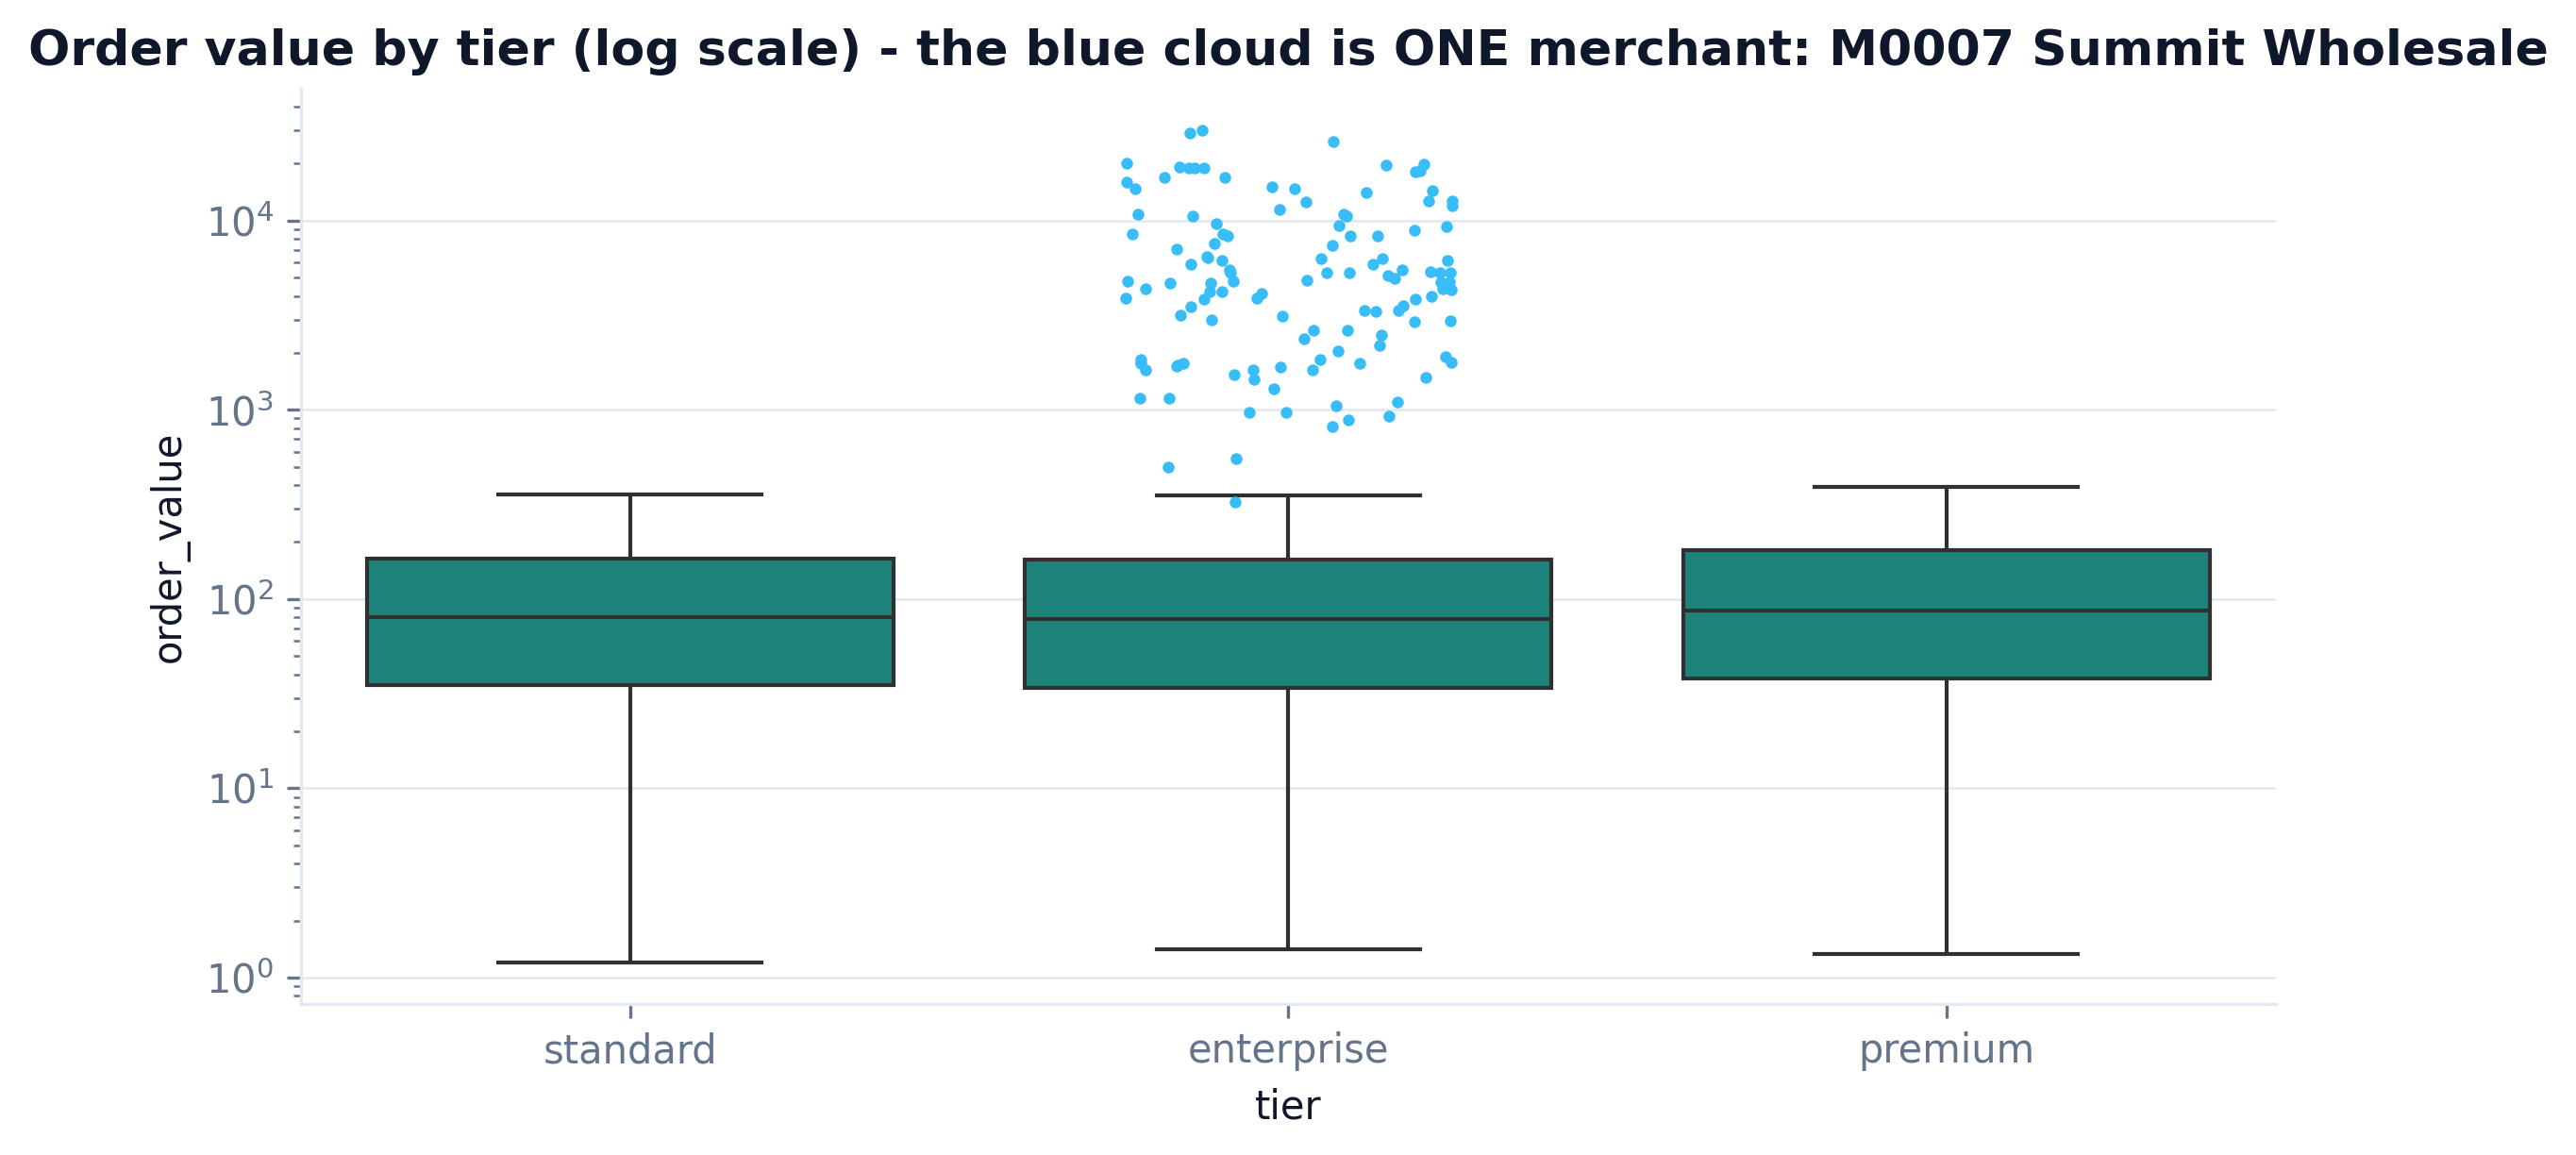
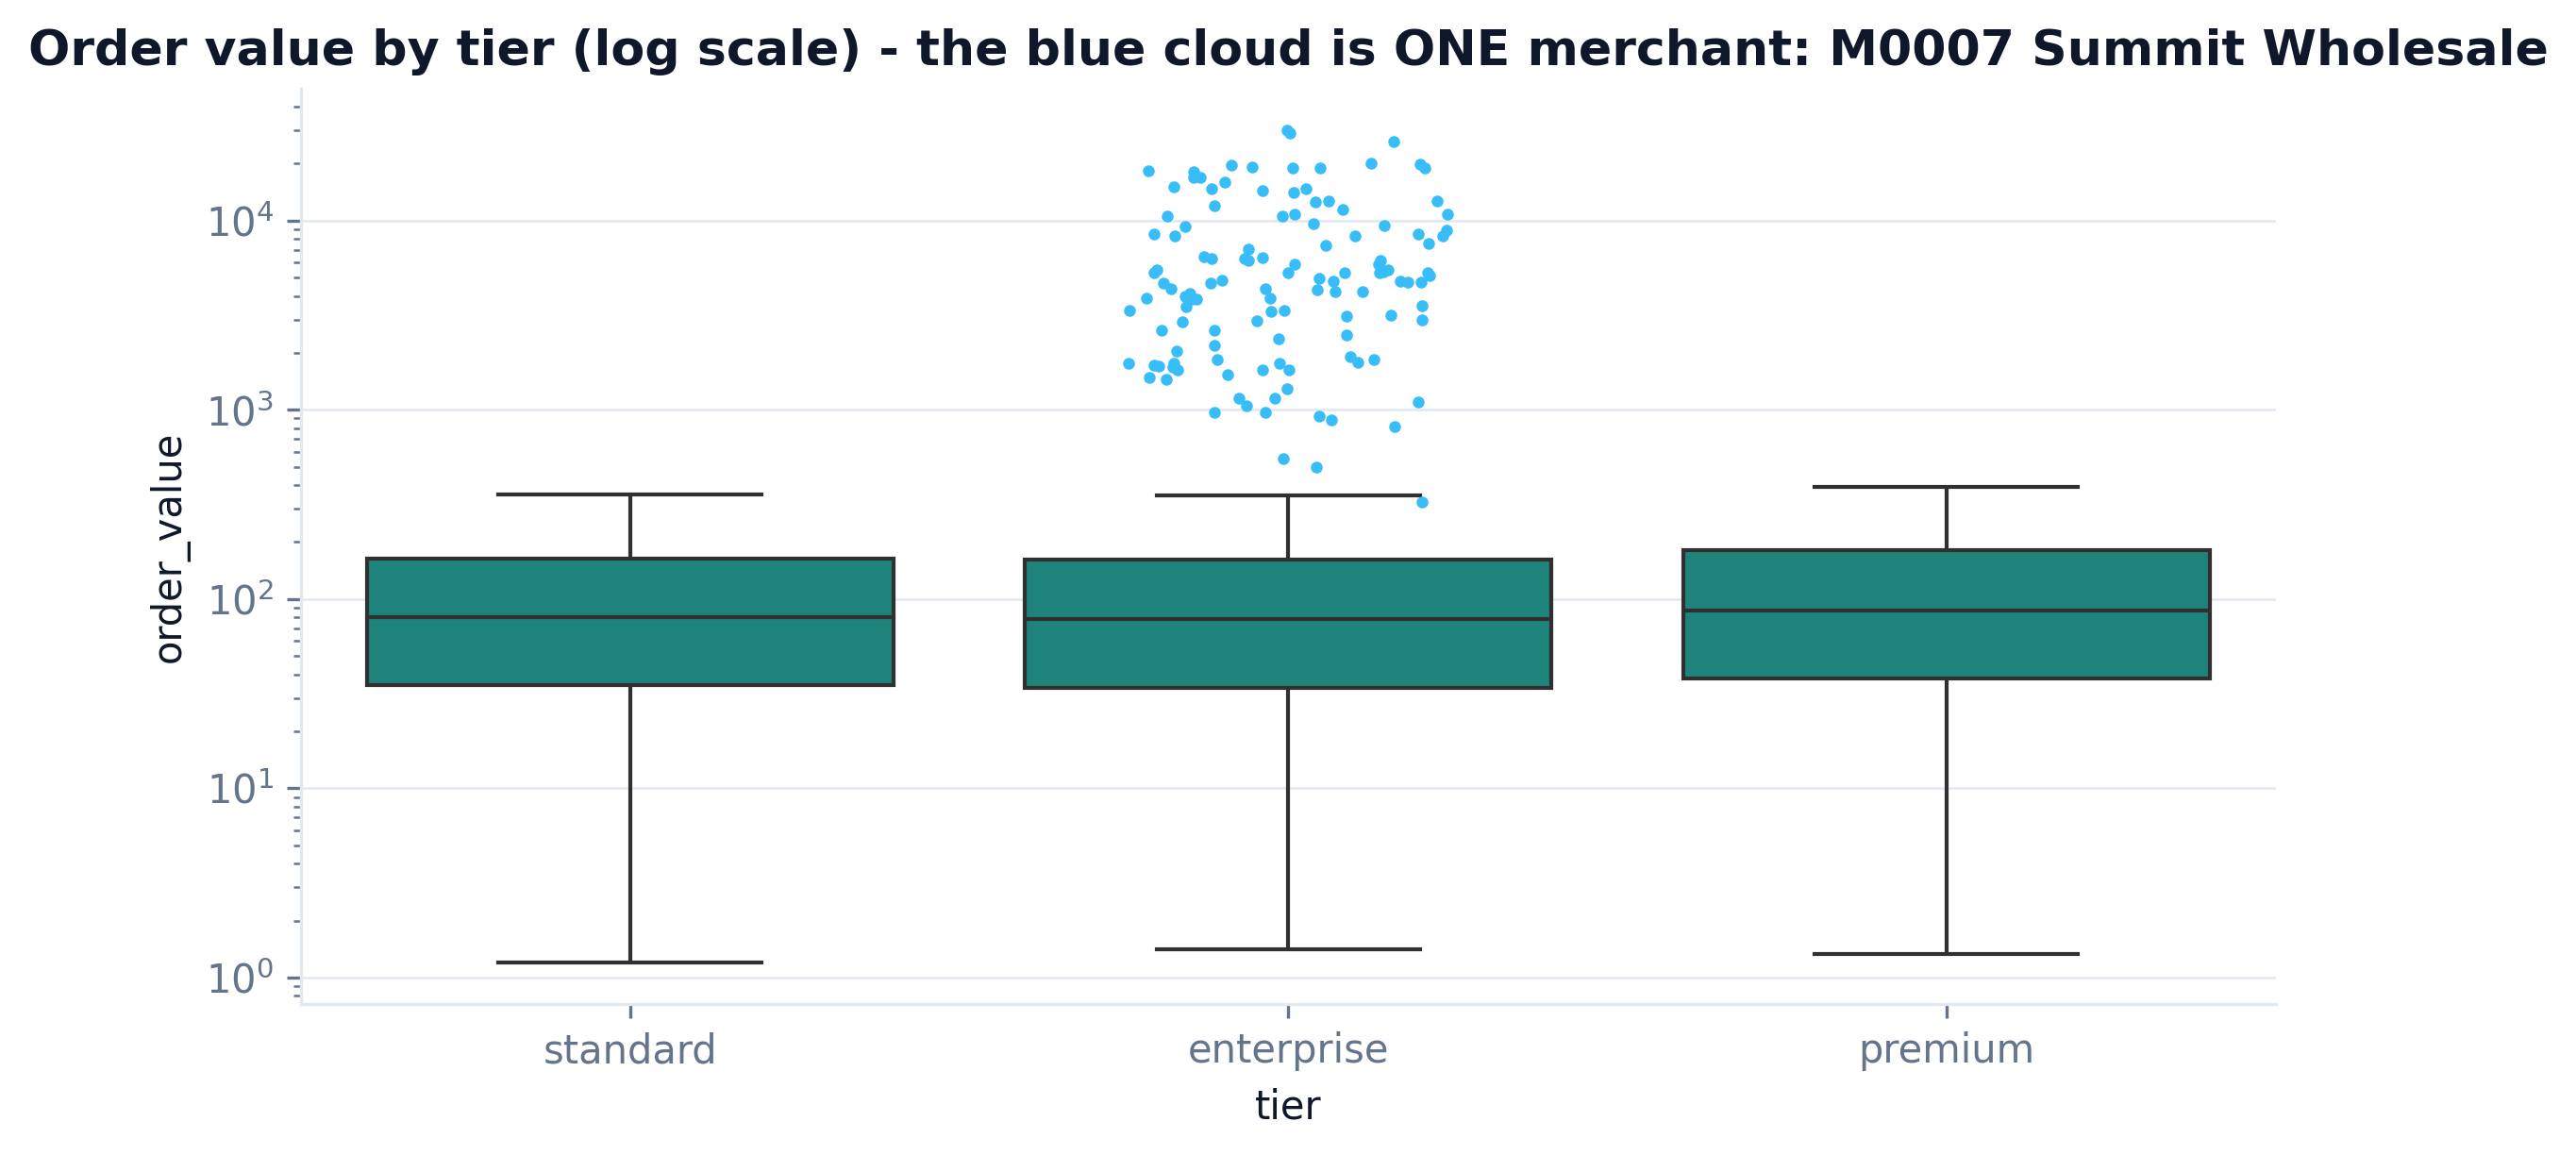
Mentor room stays private: Step 6 now an anonymous 5-agent expert-review panel (10yr+ data/insights/business); strip all named mentors from public files

Changed region(s): [[0.4359, 0.1242, 0.5916, 0.3725]]

diff --git a/docs/how-to-eda-using-claude-python/index.html b/docs/how-to-eda-using-claude-python/index.html
@@ -40,7 +40,7 @@
       <div class="rail-step"><div class="rail-node" data-step="3"><a href="#step-3"><div class="rail-circle">3</div><div class="rail-label">Objective</div></a></div><div class="rail-connector"></div></div>
       <div class="rail-step"><div class="rail-node" data-step="4"><a href="#step-4"><div class="rail-circle">4</div><div class="rail-label">Find-skills</div></a></div><div class="rail-connector"></div></div>
       <div class="rail-step"><div class="rail-node" data-step="5"><a href="#step-5"><div class="rail-circle">5</div><div class="rail-label">Code + charts</div></a></div><div class="rail-connector"></div></div>
-      <div class="rail-step"><div class="rail-node" data-step="6"><a href="#step-6"><div class="rail-circle">6</div><div class="rail-label">Mentor-verify</div></a></div></div>
+      <div class="rail-step"><div class="rail-node" data-step="6"><a href="#step-6"><div class="rail-circle">6</div><div class="rail-label">Expert review</div></a></div></div>
     </div>
   </div>
 </section>
@@ -195,13 +195,14 @@ null_by_ch = pay.groupby(<span class="c-str">"channel_id"</span>).method.apply(<
   <div class="wrap">
     <div class="step-ghost" style="color:#fff">06</div>
     <span class="step-tag">Step 6</span>
-    <h2 class="step-title">Mentor-verify - review that changes the code</h2>
-    <p class="step-body">Four mentor lenses reviewed the first version of the analysis (<code>eda_everrest_v1.py</code>, kept in the repo). Every fix below was applied and the pipeline re-ran - the charts above are the post-review v2. Review that changes nothing is theater.</p>
+    <h2 class="step-title">Expert review - a check that changes the code</h2>
+    <p class="step-body">A panel of five senior reviewer agents - each with 10+ years in data, data insights, and business - tore into the first version of the analysis (<code>eda_everrest_v1.py</code>, kept in the repo). Every fix below was applied and the pipeline re-ran; the charts above are the post-review v2. Review that changes nothing is theater.</p>
     <div class="mentor-grid">
-      <div class="mentor-card reveal"><div class="m-name">Andrej Karpathy</div><div class="m-lens">Code level</div><p>"v1 never deduped - 600 duplicate rows are inside every aggregate, and cancelled orders leak $527k into revenue. Gate the data before you touch it."</p><div class="m-fix">Fix applied: data-quality gate now runs before any aggregate; dupes and cancelled orders quantified, then excluded.</div></div>
-      <div class="mentor-card reveal"><div class="m-name">Andrew Ng</div><div class="m-lens">Methodology</div><p>"Overall missingness (7.8%) looks benign and hides the story. Break missingness down by segment or you will never see missing-not-at-random."</p><div class="m-fix">Fix applied: added missingness-by-channel chart - exposed the 55% affiliate null rate.</div></div>
-      <div class="mentor-card reveal"><div class="m-name">Cassie Kozyrkov</div><div class="m-lens">Decision framing</div><p>"Half of v1's titles were techniques: 'Correlations', 'Order value distribution'. A chart that doesn't change a decision is decoration."</p><div class="m-fix">Fix applied: every title rewritten as a finding; corr heatmap (no action) replaced with return-reasons chart; log scale added; M0007 named on the chart.</div></div>
-      <div class="mentor-card reveal"><div class="m-name">Monica Rogati</div><div class="m-lens">Practicality</div><p>"Nothing in v1 was quantified. Executives don't rank findings by p-value, they rank by money."</p><div class="m-fix">Fix applied: every finding carries a $ figure; findings.md ranks all six by impact.</div></div>
+      <div class="mentor-card reveal"><div class="m-name">Senior Data Engineer</div><div class="m-lens">12 yrs · code &amp; pipeline integrity</div><p>"v1 never deduped - 600 duplicate rows are inside every aggregate, and cancelled orders leak $527k into revenue. Gate the data before you touch it."</p><div class="m-fix">Fix applied: data-quality gate now runs before any aggregate; dupes and cancelled orders quantified, then excluded.</div></div>
+      <div class="mentor-card reveal"><div class="m-name">Analytics Methodology Lead</div><div class="m-lens">10 yrs · data quality &amp; rigor</div><p>"Overall missingness (7.8%) looks benign and hides the story. Break missingness down by segment or you will never see missing-not-at-random."</p><div class="m-fix">Fix applied: added missingness-by-channel chart - exposed the 55% affiliate null rate.</div></div>
+      <div class="mentor-card reveal"><div class="m-name">Data Insights Lead</div><div class="m-lens">11 yrs · decision framing</div><p>"Half of v1's titles were techniques: 'Correlations', 'Order value distribution'. A chart that doesn't change a decision is decoration."</p><div class="m-fix">Fix applied: every title rewritten as a finding; corr heatmap (no action) replaced with return-reasons chart; log scale added; M0007 named on the chart.</div></div>
+      <div class="mentor-card reveal"><div class="m-name">Commercial / Business Lead</div><div class="m-lens">14 yrs · impact &amp; actionability</div><p>"Nothing in v1 was quantified. Executives don't rank findings by p-value, they rank by money."</p><div class="m-fix">Fix applied: every finding carries a $ figure; findings.md ranks all six by impact.</div></div>
+      <div class="mentor-card reveal"><div class="m-name">Data QA &amp; Reproducibility</div><div class="m-lens">10 yrs · trust &amp; recall</div><p>"Prove it reproduces. Re-run from a clean checkout and confirm the analysis recovers every planted quirk, not just the easy ones."</p><div class="m-fix">Fix applied: fixed seed verified byte-identical on a clean run; all 5 planted quirks confirmed recovered, plus 1 unplanned finding.</div></div>
     </div>
     <div class="code-card">
       <div class="code-head"><span>before → after · the aggregate that lied</span><button class="copy-btn">Copy</button></div>

diff --git a/docs/index.html b/docs/index.html
@@ -26,7 +26,7 @@
   <div class="wrap">
     <span class="kicker">Claude + Python, end to end</span>
     <h1>Data skills you can<br><span class="tealline">install, not just read.</span></h1>
-    <p class="lede">Each skill walks one complex industry case through a 6-step pipeline - schema in, real executed charts and mentor-verified code out. Clone the repo, install the skill, run it on your own data.</p>
+    <p class="lede">Each skill walks one complex industry case through a 6-step pipeline - schema in, real executed charts and expert-reviewed code out. Clone the repo, install the skill, run it on your own data.</p>
     <div class="stats">
       <div class="stat"><div class="n num" data-count="1">0</div><div class="l">Skills live</div></div>
       <div class="stat"><div class="n num" data-count="6">0</div><div class="l">Pipeline steps</div></div>
@@ -88,14 +88,14 @@
   <div class="wrap">
     <span class="sec-kicker">How every skill works</span>
     <h2 class="sec-title">The 6-step pipeline</h2>
-    <p class="sec-sub">Same spine every time: input → sample data → objective → find-skills → code → mentor-verify. Real executed outputs only - every chart on every page came from a real run with a fixed seed.</p>
+    <p class="sec-sub">Same spine every time: input → sample data → objective → find-skills → code → expert review. Real executed outputs only - every chart on every page came from a real run with a fixed seed.</p>
     <div class="rail" style="margin-top:36px">
       <div class="rail-step"><div class="rail-node"><div class="rail-circle">1</div><div class="rail-label">Input</div></div><div class="rail-connector"></div></div>
       <div class="rail-step"><div class="rail-node"><div class="rail-circle">2</div><div class="rail-label">Sample data</div></div><div class="rail-connector"></div></div>
       <div class="rail-step"><div class="rail-node"><div class="rail-circle">3</div><div class="rail-label">Objective</div></div><div class="rail-connector"></div></div>
       <div class="rail-step"><div class="rail-node"><div class="rail-circle">4</div><div class="rail-label">Find-skills</div></div><div class="rail-connector"></div></div>
       <div class="rail-step"><div class="rail-node"><div class="rail-circle">5</div><div class="rail-label">Code + charts</div></div><div class="rail-connector"></div></div>
-      <div class="rail-step"><div class="rail-node"><div class="rail-circle">6</div><div class="rail-label">Mentor-verify</div></div></div>
+      <div class="rail-step"><div class="rail-node"><div class="rail-circle">6</div><div class="rail-label">Expert review</div></div></div>
     </div>
   </div>
 </section>

diff --git a/materials/how-to-eda/eda_everrest_v2.py b/materials/how-to-eda/eda_everrest_v2.py
@@ -1,17 +1,18 @@
-"""Everrest EDA - v2 (post mentor review).
+"""Everrest EDA - v2 (post expert review).
 
 Objective: what should Everrest's category team act on this quarter,
 and what in this data can't be trusted yet?
 
-Mentor fixes applied over v1:
-- Karpathy: data-quality gate FIRST - dedup the 600 double-fired orders and
-  exclude cancelled orders before any aggregate (v1 double-counted both).
-- Ng: structured DQ phase + missingness broken down BY segment (channel),
-  which is what actually exposes missing-not-at-random.
-- Kozyrkov: every chart titled with its FINDING, not its technique; corr
+Expert-review fixes applied over v1 (panel of senior reviewers, 10yr+ in
+data, data insights, and business):
+- Data engineer: data-quality gate FIRST - dedup the 600 double-fired orders
+  and exclude cancelled orders before any aggregate (v1 double-counted both).
+- Methodology lead: structured DQ phase + missingness broken down BY segment
+  (channel), which is what actually exposes missing-not-at-random.
+- Insights lead: every chart titled with its FINDING, not its technique; corr
   heatmap (no action) replaced with return-reason breakdown; log scale on
   the skewed order-value distribution; outlier merchant named on chart.
-- Rogati: every finding quantified in $ and ranked - findings.md is the
+- Business lead: every finding quantified in $ and ranked - findings.md is the
   exec deliverable, charts are the evidence.
 
 Run:  python eda_everrest_v2.py
@@ -143,7 +144,7 @@ ax.set_title("Only one column has a missing-data problem: payments.method (7.8%)
 fig.savefig(OUT / "missingness_matrix.png")
 plt.close(fig)
 
-# Missingness BY CHANNEL (Ng fix) - proves missing-not-at-random.
+# Missingness BY CHANNEL (methodology-lead fix) - proves missing-not-at-random.
 pay = payments.merge(
     orders_raw.drop_duplicates("order_id")[["order_id", "customer_id"]], on="order_id"
 )
@@ -197,7 +198,7 @@ ax.set_xlabel("merchant rank")
 fig.savefig(OUT / "revenue_pareto.png")
 plt.close(fig)
 
-# Outlier merchant isolated + named (Kozyrkov fix).
+# Outlier merchant isolated + named (insights-lead fix).
 med_all = rev_orders.order_value.median()
 m7 = rev_orders[rev_orders.merchant_id == "M0007"]
 m7_share = m7.order_value.sum() / rev.sum() * 100
@@ -231,7 +232,7 @@ ax.set_title(
 fig.savefig(OUT / "order_value_by_tier.png")
 plt.close(fig)
 
-# Distribution, log scale (Kozyrkov fix).
+# Distribution, log scale (insights-lead fix).
 fig, ax = plt.subplots(figsize=(9, 4))
 vals = rev_orders.order_value.dropna()
 ax.hist(vals, bins=np.geomspace(vals.min() + 1, vals.max(), 90), color=TEAL)
@@ -365,7 +366,7 @@ ax.set_ylabel("% of delivered orders returned")
 fig.savefig(OUT / "returns_by_tier.png")
 plt.close(fig)
 
-# Return reasons within premium (replaces v1 corr heatmap - Kozyrkov fix).
+# Return reasons within premium (replaces v1 corr heatmap - insights-lead fix).
 ret_m = returns.merge(delivered[["order_id", "tier"]], on="order_id")
 reason = ret_m.pivot_table(
     index="reason", columns="tier", values="return_id", aggfunc="count"

diff --git a/materials/how-to-eda/eda_everrest_v1.py b/materials/how-to-eda/eda_everrest_v1.py
@@ -1,4 +1,4 @@
-"""Everrest EDA - v1 (first pass, pre mentor review).
+"""Everrest EDA - v1 (first pass, pre expert review).
 
 Objective: what should Everrest's category team act on this quarter,
 and what in this data can't be trusted yet?

diff --git a/skills/how-to-eda/SKILL.md b/skills/how-to-eda/SKILL.md
@@ -1,6 +1,6 @@
 ---
 name: how-to-eda
-description: Run a decision-first exploratory data analysis (EDA) with Claude + Python on any schema. Use when handed a data schema or new dataset and asked to "explore the data", "run EDA", "profile this", "what's in this data", "can we trust this data", or before building any dashboard/model on unfamiliar tables. Walks the 6-step pipeline - input, sample data (if no real data yet), objective, find-skills, code with real executed charts, mentor-verify - and outputs findings ranked by dollar impact.
+description: Run a decision-first exploratory data analysis (EDA) with Claude + Python on any schema. Use when handed a data schema or new dataset and asked to "explore the data", "run EDA", "profile this", "what's in this data", "can we trust this data", or before building any dashboard/model on unfamiliar tables. Walks the 6-step pipeline - input, sample data (if no real data yet), objective, find-skills, code with real executed charts, expert review - and outputs findings ranked by dollar impact.
 ---
 
 # how-to-EDA-using-claude-python
@@ -50,12 +50,15 @@ technique ("Top 20 merchants = 68% of revenue", never "Bar chart of revenue");
 name anomalous entities on the chart; 300 DPI PNGs; aim for 10+ chart types when
 the data supports them; kill any chart with no action attached.
 
-### 6. Mentor-verify
-Review the actual code + outputs through four lenses, apply the fixes, re-run:
-- **Code level (Karpathy)**: dedup before aggregates? leakage of phantom rows? vectorized?
-- **Methodology (Ng)**: DQ gate separated from analysis? reproducible (seed, env documented)?
-- **Decision framing (Kozyrkov)**: does every chart answer a sub-question? technique-titled charts renamed or cut?
-- **Practicality (Rogati)**: is every finding quantified in $ and ranked? would an exec know what to do next?
+### 6. Expert review
+Convene a panel of 4-6 senior reviewer agents, each with 10+ years in data,
+data insights, and business. Have them review the actual code + outputs through
+these lenses, apply the fixes, and re-run:
+- **Code & pipeline integrity**: dedup before aggregates? leakage of phantom rows? vectorized?
+- **Methodology & rigor**: DQ gate separated from analysis? reproducible (seed, env documented)? missingness checked by segment, not just overall?
+- **Decision framing**: does every chart answer a sub-question? technique-titled charts renamed or cut?
+- **Business impact**: is every finding quantified in $ and ranked? would an exec know what to do next?
+- **QA & reproducibility**: does a clean re-run reproduce byte-identical output and recover every planted quirk?
 Keep the before/after - review that changes nothing is theater.
 
 ## Output format

diff --git a/README.md b/README.md
@@ -28,15 +28,15 @@ Most data tutorials show you `df.describe()` on the Titanic dataset. These skill
 
 Each skill walks the same six steps - so once you've seen one, you can read them all:
 
-**Input** → **Sample data** → **Objective** → **Find-skills** → **Code + charts** → **Mentor-verify**
+**Input** → **Sample data** → **Objective** → **Find-skills** → **Code + charts** → **Expert review**
 
-Schema in, a decision question, the toolbox Claude assembles, the real analysis, and a review loop that actually rewrites the code.
+Schema in, a decision question, the toolbox Claude assembles, the real analysis, and a panel of senior reviewer agents (10+ years in data, insights, and business) that actually rewrites the code.
 
 ## What's inside
 
 | Skill | What it does | Status |
 |-------|-------------|--------|
-| **how-to-EDA** | Full exploratory data analysis, decision-first | ✅ Live |
+| **how-to-EDA** | Full exploratory data analysis, decision-first, expert-reviewed | ✅ Live |
 | how-to-feature-engineering | Raw tables → model-ready features | 🔜 Planned |
 | how-to-data-quality | Schema → automated quality gates | 🔜 Planned |
 | how-to-forecasting | Demand forecast with seasonality + honesty | 🔜 Planned |